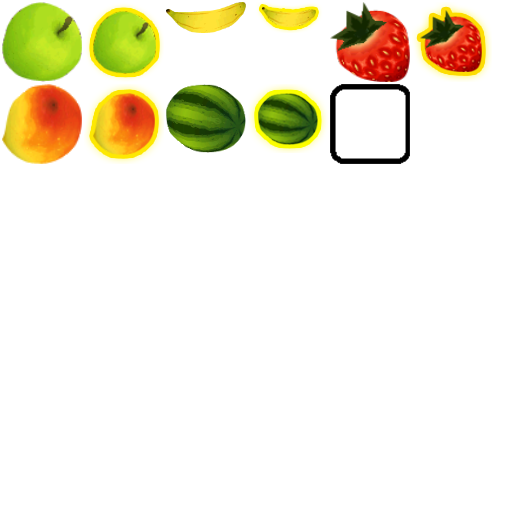
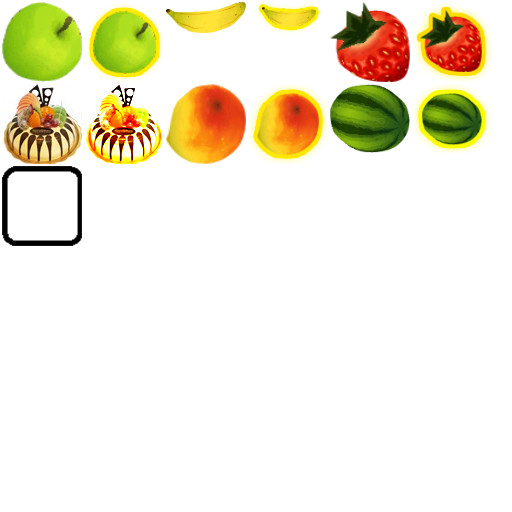
实现了4消，T消，L消，5消功能

Changed region(s): [[0.0, 0.1562, 0.9688, 0.5]]

diff --git a/MyProject/3.4/CandyDemo/Classes/fruit/Fruit.cpp b/MyProject/3.4/CandyDemo/Classes/fruit/Fruit.cpp
@@ -3,7 +3,7 @@
 #include "Tool.h"
 #include "Contral.h"
 #include "HelloWorldScene.h"
-Fruit::Fruit():is_user_contact(false)
+Fruit::Fruit():is_user_contact(false),level(0)
 {
 
 }
@@ -140,4 +140,36 @@ void Fruit::remove()
 std::string Fruit::getFileName()
 {
 	return file_name;
+}
+
+void Fruit::level_up(int _level)
+{
+	level = _level;
+	FiniteTimeAction * actionOne = Sequence::create(
+		ScaleTo::create(0.1f, 1.5f),
+		ScaleTo::create(0.1f, 1.0f),
+		NULL);
+	switch (level)
+	{
+	case 1:
+		this->setColor(Color3B(50, 50, 255));
+		this->runAction(actionOne);
+		break;
+	case 2:
+		this->setColor(Color3B(50, 255, 50));
+		this->runAction(actionOne);
+		break;
+	case 3:
+		this->setColor(Color3B(255, 50, 50));
+		this->runAction(actionOne);
+		break;
+	case 4:
+		this->runAction(actionOne);
+		this->file_name = max_name;
+		this->setDisplayFrame(Manager::Instance()->frames->spriteFrameByName(file_name));
+		break;
+	default:
+		break;
+	}
+	
 }

diff --git a/MyProject/3.4/CandyDemo/Classes/Manager/Manager.cpp b/MyProject/3.4/CandyDemo/Classes/Manager/Manager.cpp
@@ -110,11 +110,12 @@ Fruit* Manager::random_fruit(MyPoint myPoint)
 		
 	}
 	int _type = rand()%fruit_number;
+	int _random = rand()%10;
 	if(x_flag)
 	{
 		if(_type == x_type)
 		{
-			if(rand()%10 > 4)
+			if(_random > 4)
 			{
 				_type++;
 				if(_type > fruit_number-1)
@@ -132,7 +133,7 @@ Fruit* Manager::random_fruit(MyPoint myPoint)
 	{
 		if(_type == y_type)
 		{
-			if(rand()%10 > 4)
+			if(_random > 4)
 			{
 				_type++;
 				if(_type > fruit_number-1)

diff --git a/MyProject/3.4/CandyDemo/Classes/fruit/Fruit.h b/MyProject/3.4/CandyDemo/Classes/fruit/Fruit.h
@@ -17,12 +17,14 @@ public:
 	void updatePoint_with_xc();
 	void remove();
 	std::string getFileName();
+	void level_up(int _level);
 private:
 	static Fruit* createWithSpriteFrame(SpriteFrame *spriteFrame, int type);
 	static Fruit* createWithSpriteFrameName(const std::string& spriteFrameName, int type);
 
 public:
 	int type;
+	int level;
 	MyPoint world_point;
 	bool is_user_contact;
 private:

diff --git a/MyProject/3.4/CandyDemo/Classes/Perf.cpp b/MyProject/3.4/CandyDemo/Classes/Perf.cpp
@@ -12,6 +12,7 @@ std::string banana_name = "banana.png";
 std::string basaha_name = "basaha.png";
 std::string peach_name = "peach.png";
 std::string sandia_name = "sandia.png";
+std::string max_name = "max.png";
 
 std::string Obstacle_name = "Obstacle.png";
 std::string Tiled_name = "tiled.png";

diff --git a/MyProject/3.4/CandyDemo/Classes/Loading_Scene_1.cpp b/MyProject/3.4/CandyDemo/Classes/Loading_Scene_1.cpp
@@ -53,7 +53,7 @@ void Loading_Scene_1::update(float dt)
 		returnToGameLayer();
 	}
 	else
-		loadingbar->setPercentage(loadingbar->getPercentage()+0.8f);
+		loadingbar->setPercentage(loadingbar->getPercentage()+1.2f);
 }
 
 void Loading_Scene_1::loadResource()

diff --git a/MyProject/3.4/CandyDemo/Classes/Perf.h b/MyProject/3.4/CandyDemo/Classes/Perf.h
@@ -14,6 +14,8 @@ extern std::string basaha_name;
 extern std::string peach_name;
 extern std::string sandia_name;
 
+extern std::string max_name;
+
 extern std::string Obstacle_name;
 extern std::string Tiled_name;
 
